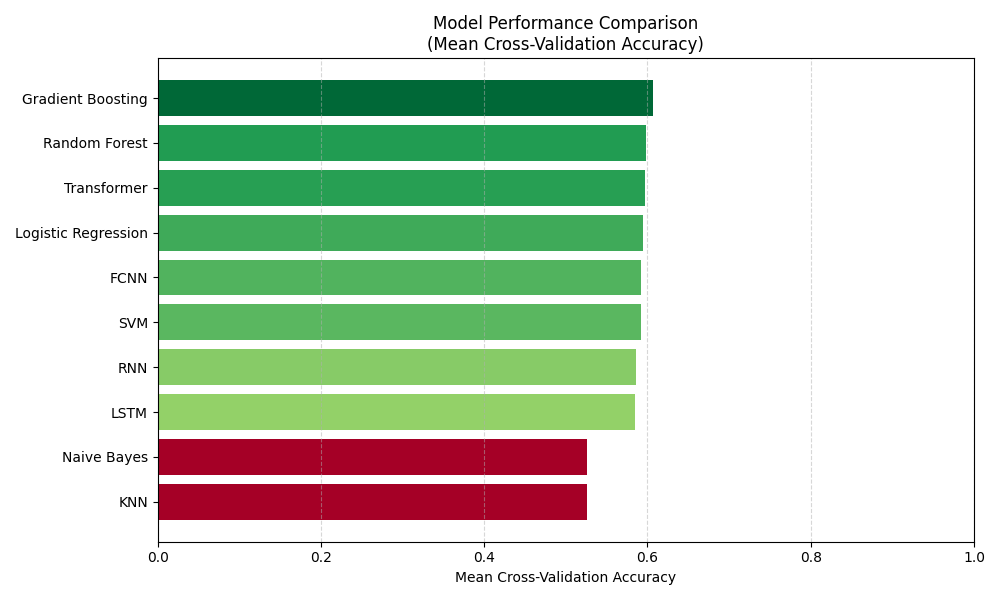
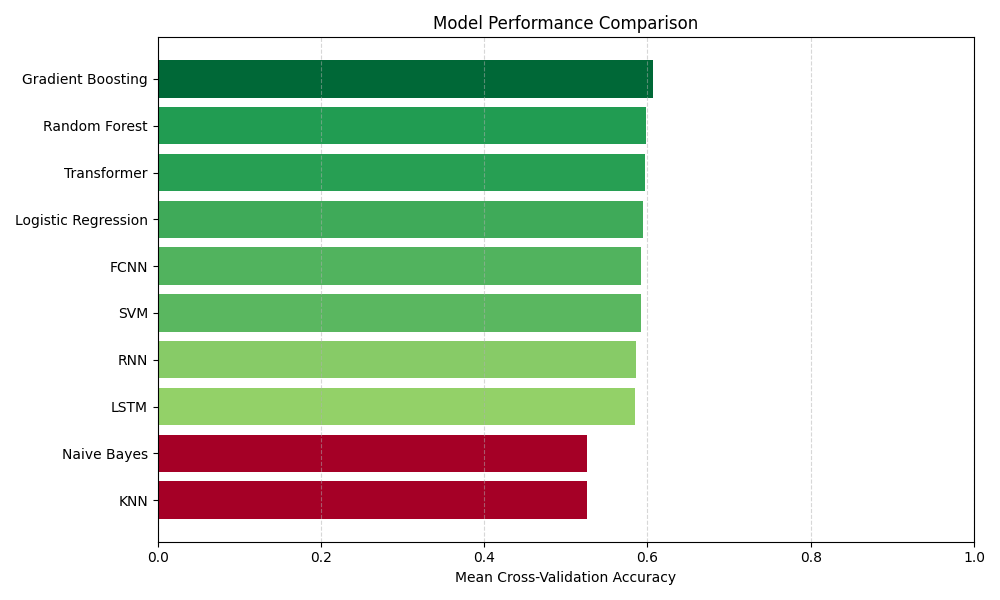
Update plot title for model performance comparison and refresh accuracy comparison image

diff --git a/code/utils.py b/code/utils.py
@@ -36,7 +36,7 @@ def plot_model_accuracies(performance_df, output_path):
     plt.figure(figsize=(10, 6))
     plt.barh(performance_df["Model"], performance_df["Accuracy"], color=colors)
     plt.xlabel("Mean Cross-Validation Accuracy")
-    plt.title("Model Performance Comparison\n(Mean Cross-Validation Accuracy)")
+    plt.title("Model Performance Comparison")
     plt.xlim([0, 1])
     plt.grid(True, axis="x", linestyle="--", alpha=0.5)
     
